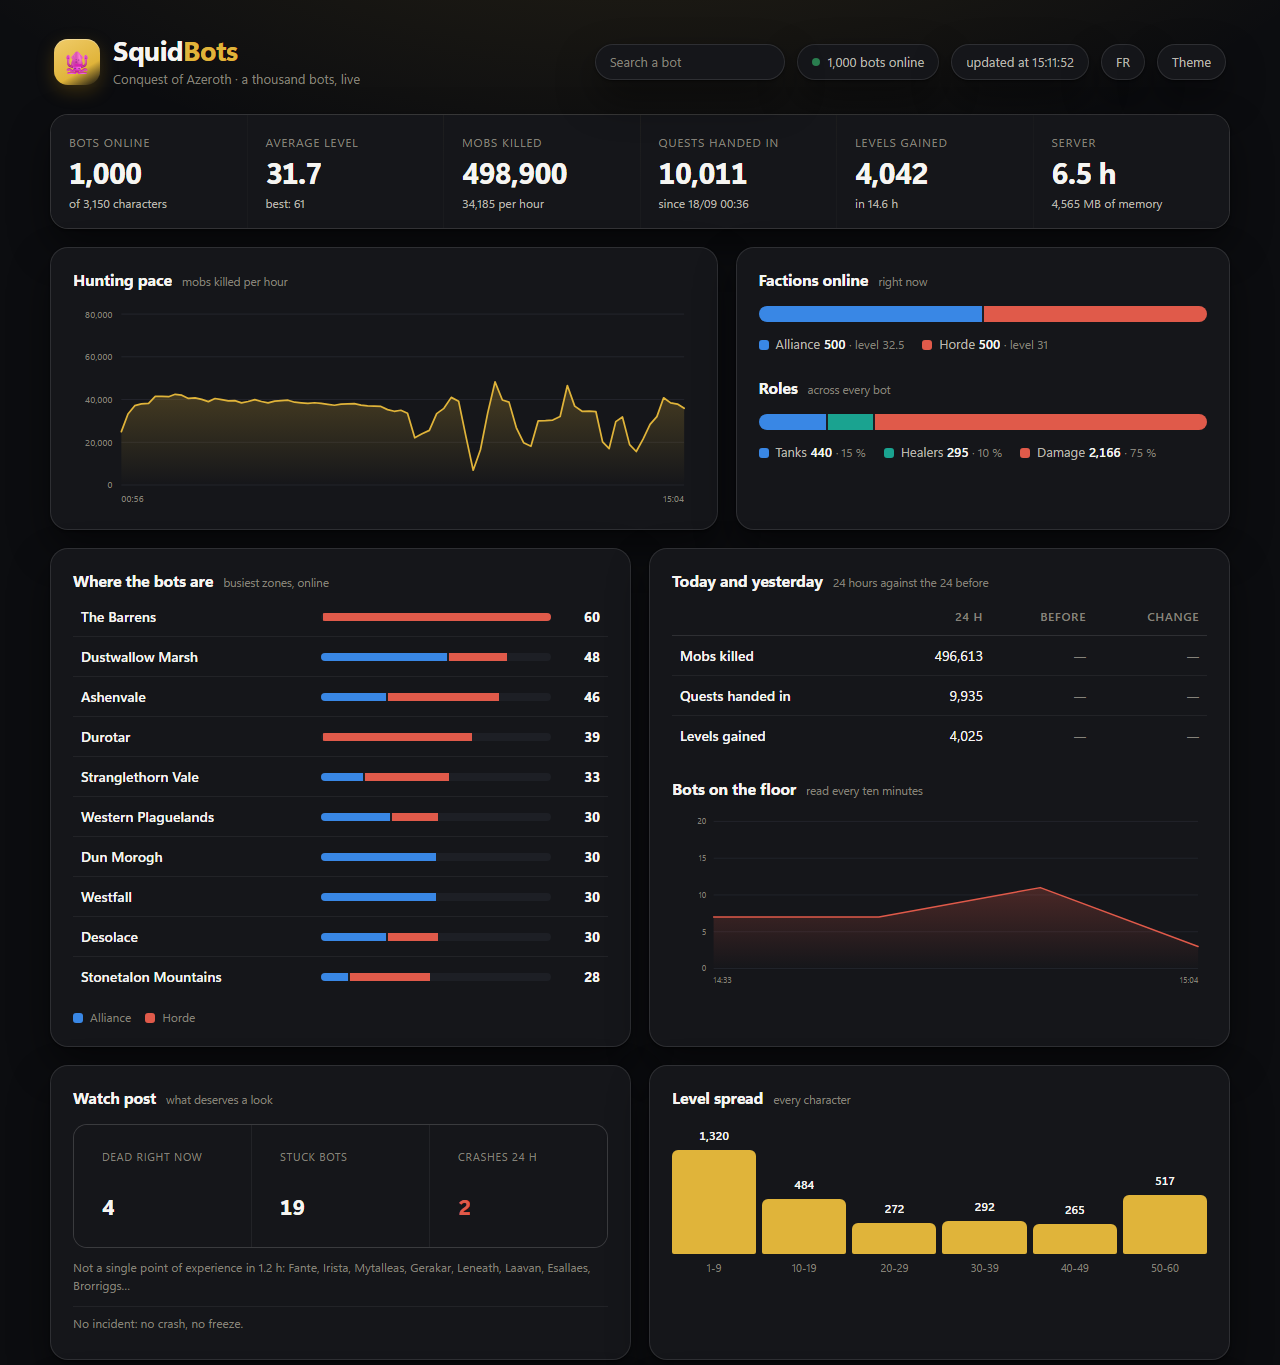
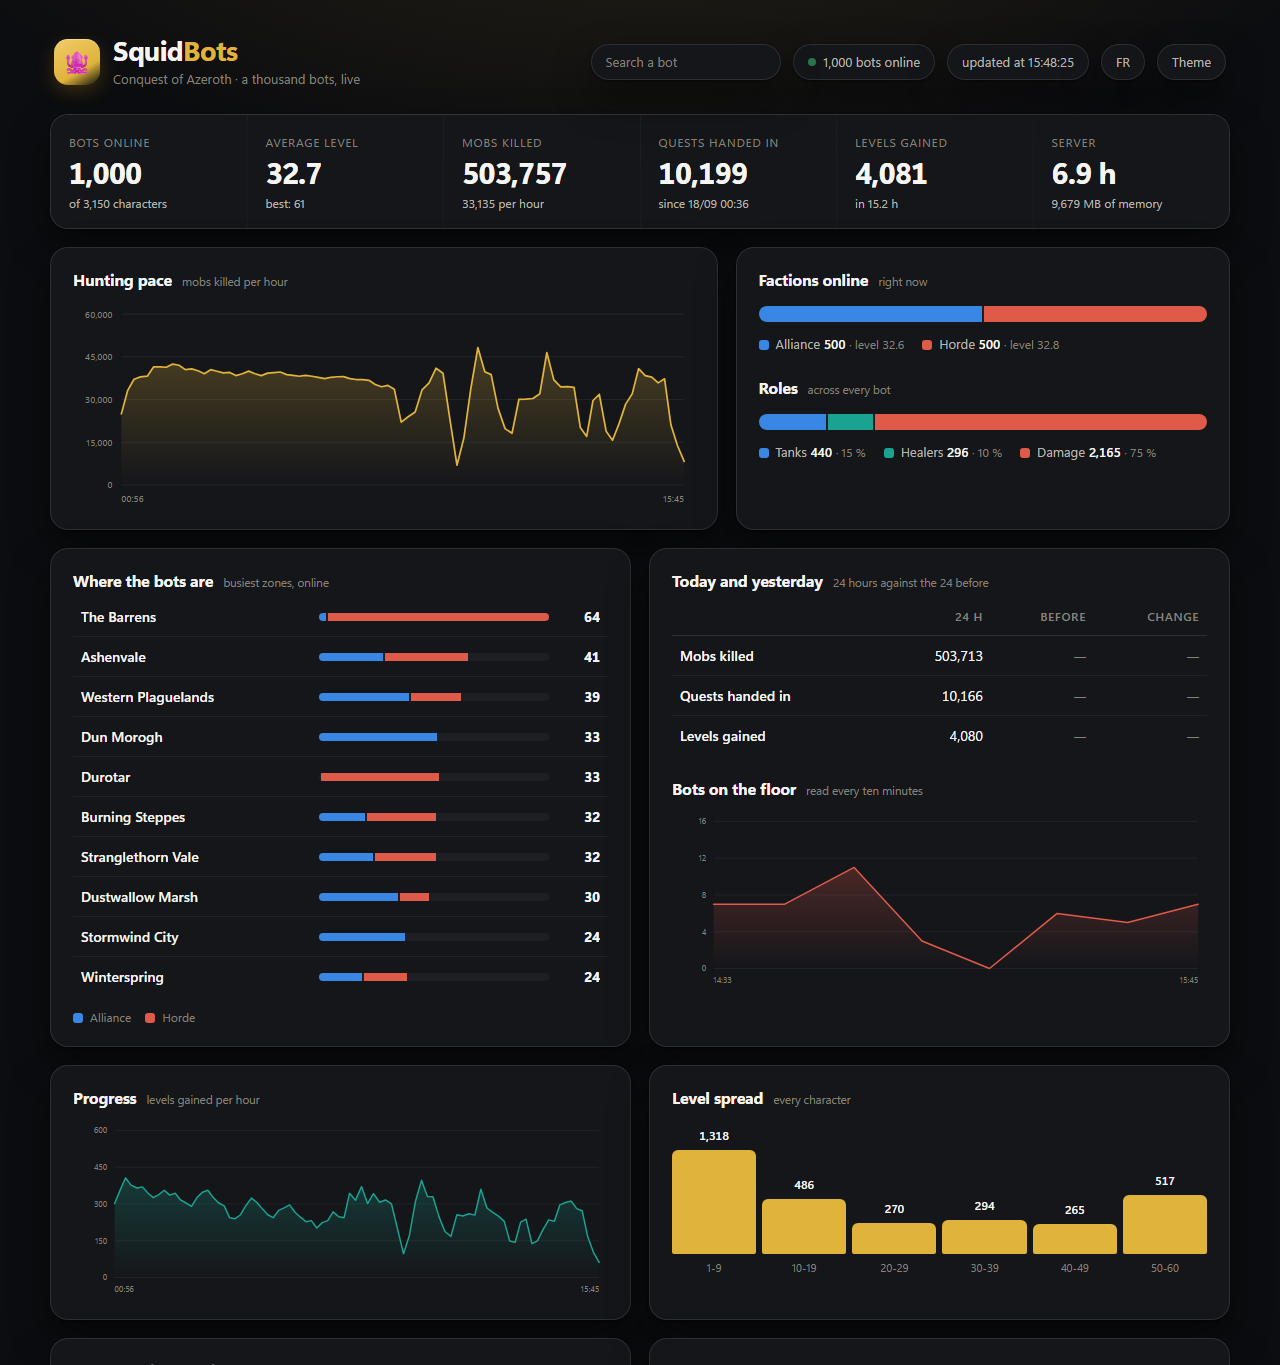
Move two cards, colour the finds, and say "talkers" rather than "bots"
The progress curve now sits beside the level spread, and the two lists of text -
who talks and what drops - sit together at the foot of the page.

A find is shown in its own quality colour, blue to orange, because the bar for
epics alone was almost always empty: a thousand bots grinding to 60 see a
handful a day, where blues arrive by the minute.

And a human at the keyboard can appear in the talkers ranking, so it no longer
calls them all bots.

diff --git a/index.html b/index.html
@@ -25,7 +25,9 @@
   --accent: #0f8a74;
   --good: #0f7a2e;
   --bad: #c0392b;
+  --rare: #1e6fc4;
   --epic: #7a4bd0;
+  --legendary: #b8620a;
   --shadow: 0 1px 2px rgba(22, 21, 15, .06), 0 12px 32px rgba(22, 21, 15, .06);
 }
 @media (prefers-color-scheme: dark) {
@@ -49,7 +51,9 @@
     --accent: #1aa390;
     --good: #35b36a;
     --bad: #e05a4a;
+    --rare: #4a9eff;
     --epic: #a97ce8;
+    --legendary: #ff9a3c;
     --shadow: 0 1px 2px rgba(0, 0, 0, .5), 0 18px 40px rgba(0, 0, 0, .45);
   }
 }
@@ -73,7 +77,9 @@
   --accent: #1aa390;
   --good: #35b36a;
   --bad: #e05a4a;
+  --rare: #4a9eff;
   --epic: #a97ce8;
+  --legendary: #ff9a3c;
   --shadow: 0 1px 2px rgba(0, 0, 0, .5), 0 18px 40px rgba(0, 0, 0, .45);
 }
 
@@ -173,7 +179,9 @@ td.r, th.r { text-align: right; font-variant-numeric: tabular-nums; }
 .offline { opacity: .55; }
 .empty { color: var(--text-muted); font-size: 13px; padding: 14px 2px; margin: 0; }
 .scroll { overflow-x: auto; }
-.epic { color: var(--epic); font-weight: 560; }
+.q3 { color: var(--rare); font-weight: 560; }
+.q4 { color: var(--epic); font-weight: 560; }
+.q5 { color: var(--legendary); font-weight: 560; }
 
 /* ---------- watch ---------- */
 .watch { display: grid; grid-template-columns: repeat(3, 1fr); gap: 1px; background: var(--hairline);
@@ -286,10 +294,8 @@ footer a { color: var(--gold); }
 
 <div class="grid two">
   <section class="card">
-    <h2><span data-i18n="watchTitle"></span> <span class="sub" data-i18n="watchSub"></span></h2>
-    <div class="watch" id="watch"></div>
-    <div id="stuckNames"></div>
-    <ul class="events" id="incidents"></ul>
+    <h2><span data-i18n="progressTitle"></span> <span class="sub" id="progressSub"></span></h2>
+    <div class="chart" id="levelsChart"></div>
   </section>
   <section class="card">
     <h2><span data-i18n="levelsTitle"></span> <span class="sub" data-i18n="levelsSub"></span></h2>
@@ -303,8 +309,8 @@ footer a { color: var(--gold); }
     <div id="xpRate"></div>
   </section>
   <section class="card">
-    <h2><span data-i18n="chatTitle"></span> <span class="sub" id="chatSub"></span></h2>
-    <div id="chat"></div>
+    <h2><span data-i18n="spellsTitle"></span> <span class="sub" id="actionsSub"></span></h2>
+    <div id="actions"></div>
   </section>
 </div>
 
@@ -315,8 +321,10 @@ footer a { color: var(--gold); }
 
 <div class="grid two">
   <section class="card">
-    <h2><span data-i18n="progressTitle"></span> <span class="sub" id="progressSub"></span></h2>
-    <div class="chart" id="levelsChart"></div>
+    <h2><span data-i18n="watchTitle"></span> <span class="sub" data-i18n="watchSub"></span></h2>
+    <div class="watch" id="watch"></div>
+    <div id="stuckNames"></div>
+    <ul class="events" id="incidents"></ul>
   </section>
   <section class="card">
     <h2><span data-i18n="topTitle"></span> <span class="sub" data-i18n="topSub"></span></h2>
@@ -331,8 +339,8 @@ footer a { color: var(--gold); }
 
 <div class="grid wide">
   <section class="card">
-    <h2><span data-i18n="spellsTitle"></span> <span class="sub" id="actionsSub"></span></h2>
-    <div id="actions"></div>
+    <h2><span data-i18n="chatTitle"></span> <span class="sub" id="chatSub"></span></h2>
+    <div id="chat"></div>
   </section>
   <section class="card">
     <h2><span data-i18n="lootTitle"></span> <span class="sub" id="lootSub"></span></h2>
@@ -381,7 +389,7 @@ const WORDS = {
     xpWait: "First reading under way: the ranking starts after an hour of play.",
     xpUnit: "xp/h", levelShort: n => "level " + n,
     chatTitle: "Most talkative", chatNone: "The chat journal starts at the next server restart.",
-    chatSub: (m, t) => m + " messages · " + t + " talkative bots",
+    chatSub: (m, t) => m + " messages · " + t + " talkers",
     chatChannel: n => n + " in a channel", chatOther: "conversations and emotes", chatUnit: "msg",
     classesTitle: "Class ranking", classesSub: "average level, and each class's podium",
     colClass: "Class", colAvgLevel: "Average level", colBots: "Bots", colKills: "Mobs", colPodium: "Podium",
@@ -393,9 +401,9 @@ const WORDS = {
     spellsTitle: "Spells cast", spellsSub: h => "over " + h + " h · cast / tried",
     spellsNone: "No spell journal.",
     colAction: "Action", colSuccess: "Success", colCast: "Cast", colTried: "Tried",
-    lootTitle: "Rare finds", lootSub: n => n + " in the last two days",
+    lootTitle: "Notable finds", lootSub: n => n + " in the last two days",
     lootNone: "No loot journal yet: it starts at the next server restart.",
-    lootQuiet: "Nothing epic in the last two days.",
+    lootQuiet: "Nothing notable in the last two days.",
     sheetLevel: "Level", sheetKills: "Mobs killed", sheetQuests: "Quests", sheetPlayed: "Time played",
     sheetXp: "Experience", sheetZone: "Zone", close: "Close",
     tank: "tank", heal: "healer", dps: "damage",
@@ -440,7 +448,7 @@ const WORDS = {
     xpWait: "Première mesure en cours : le classement démarre après une heure de jeu.",
     xpUnit: "xp/h", levelShort: n => "niveau " + n,
     chatTitle: "Les plus bavards", chatNone: "Le journal du chat commence au prochain démarrage du serveur.",
-    chatSub: (m, t) => m + " messages · " + t + " bots bavards",
+    chatSub: (m, t) => m + " messages · " + t + " bavards",
     chatChannel: n => n + " dans un canal", chatOther: "conversations et émotes", chatUnit: "msg",
     classesTitle: "Classement par classe", classesSub: "niveau moyen, et le podium de chaque classe",
     colClass: "Classe", colAvgLevel: "Niveau moyen", colBots: "Bots", colKills: "Monstres", colPodium: "Podium",
@@ -454,7 +462,7 @@ const WORDS = {
     colAction: "Action", colSuccess: "Réussite", colCast: "Lancés", colTried: "Tentés",
     lootTitle: "Butin remarquable", lootSub: n => n + " sur les deux derniers jours",
     lootNone: "Pas encore de journal du butin : il commence au prochain démarrage du serveur.",
-    lootQuiet: "Rien d'épique sur les deux derniers jours.",
+    lootQuiet: "Rien de remarquable sur les deux derniers jours.",
     sheetLevel: "Niveau", sheetKills: "Monstres tués", sheetQuests: "Quêtes", sheetPlayed: "Temps de jeu",
     sheetXp: "Expérience", sheetZone: "Zone", close: "Fermer",
     tank: "tank", heal: "soigneur", dps: "dégâts",
@@ -906,7 +914,8 @@ function renderLoot(data) {
   for (const row of loot.rows) {
     const line = el("tr");
     line.append(el("td", { class: "meta num", style: "white-space:nowrap" }, clock(row.ts)));
-    line.append(el("td", {}, '<div class="epic">' + esc(row.item) + (row.count > 1 ? " ×" + row.count : "") +
+    line.append(el("td", {}, '<div class="q' + (row.quality > 5 ? 5 : row.quality) + '">' +
+      esc(row.item) + (row.count > 1 ? " ×" + row.count : "") +
       '</div><div class="meta">' + esc(names[row.cls] || "") + " · " + esc(W.levelShort(row.level)) + "</div>"));
     line.append(el("td", { class: "r" }, '<div class="name clickable">' + esc(row.bot) +
       '</div><div class="meta">ilvl ' + esc(row.ilvl) + "</div>"));
